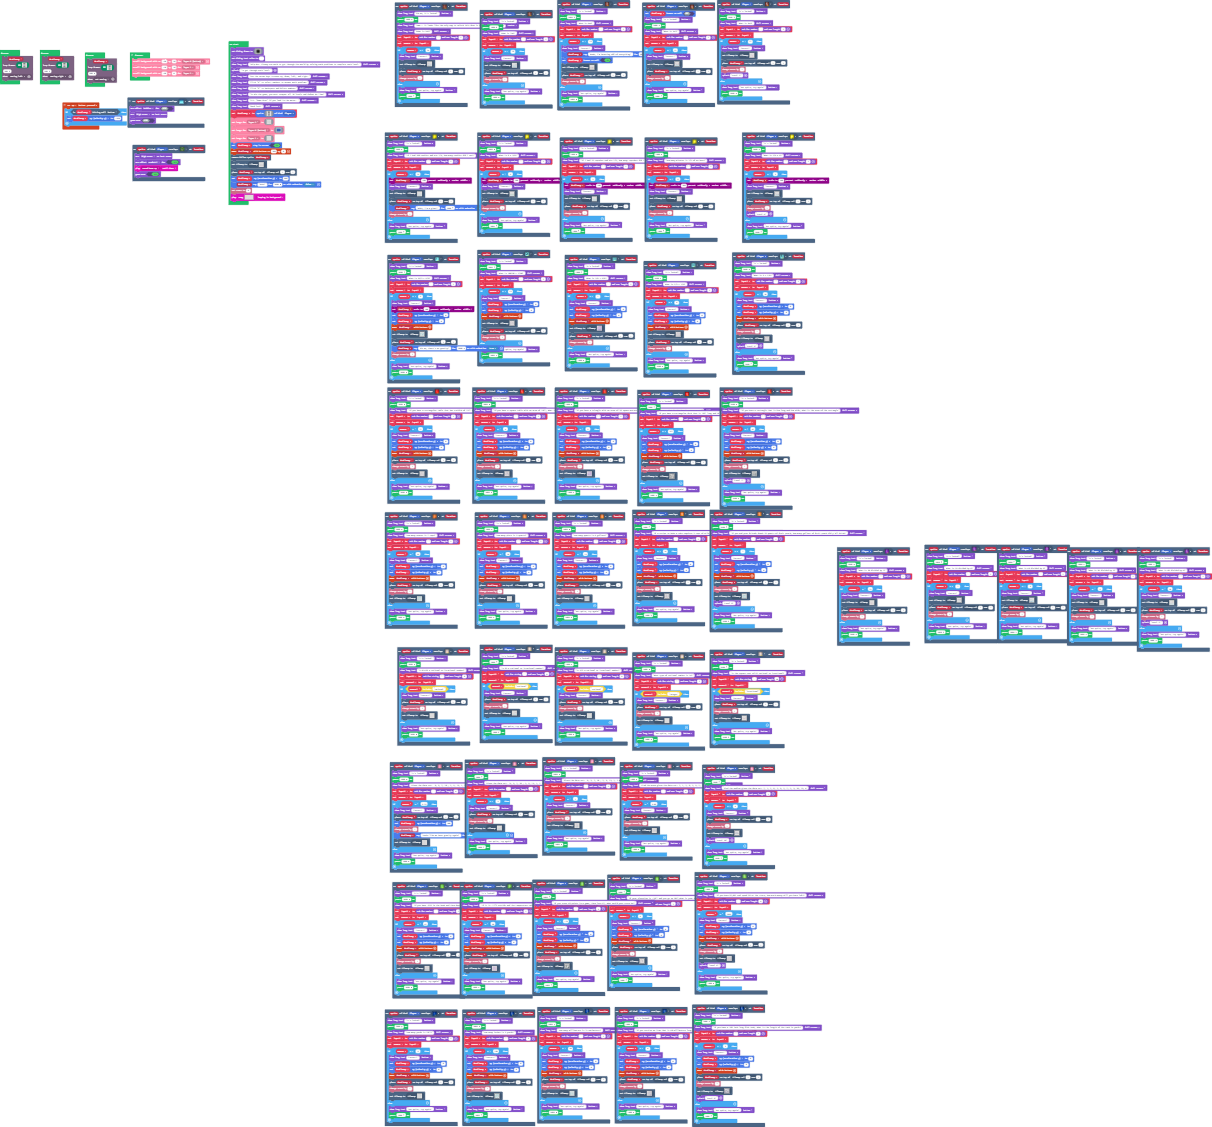
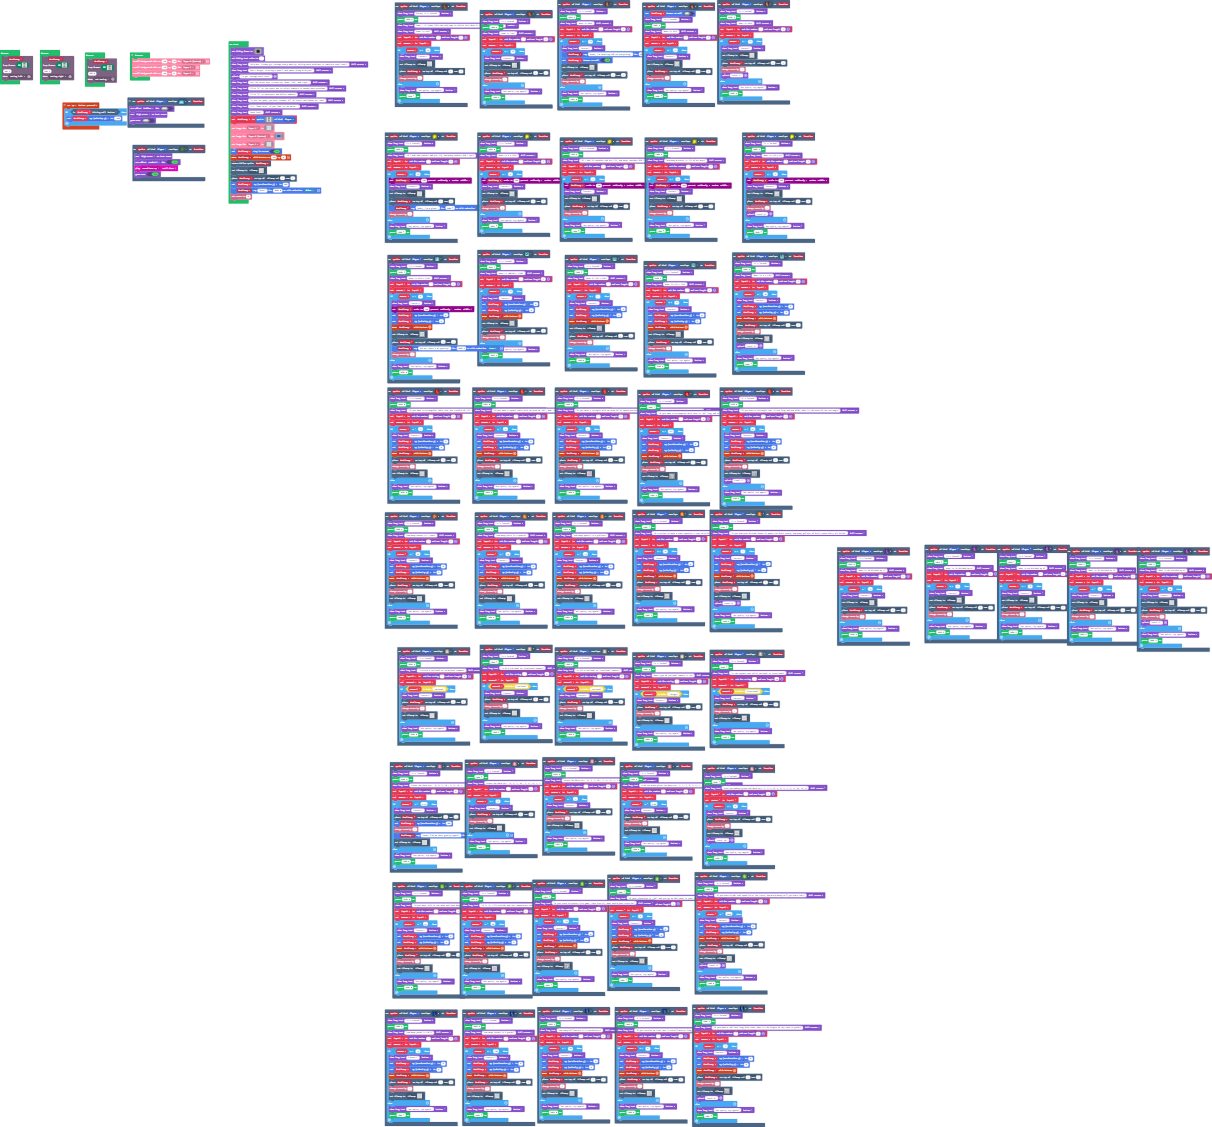
Update main.blocks, main.ts

Changed region(s): [[0.1832, 0.0621, 0.3053, 0.1863]]

diff --git a/main.ts b/main.ts
@@ -937,10 +937,11 @@ game.setDialogFrame(img`
     1 1 1 1 1 1 1 1 1 1 1 1 1 1 1 
     `)
 game.setDialogTextColor(1)
-game.showLongText("Help Mrs. Finney use math to get through the world by solving math problems to complete each level.", DialogLayout.Full)
+game.showLongText("Help Mrs. Finney get through every maze by solving math problems to complete each level.", DialogLayout.Full)
+game.showLongText("Don't forget to bring a pencil and paper along with you!", DialogLayout.Full)
 game.splash("To get through each level:")
 game.showLongText("Use the arrow keys to move up, down, left, and right.", DialogLayout.Full)
-game.showLongText("Click \"A\" to select numbers to answer math problems", DialogLayout.Full)
+game.showLongText("Click \"A\" or the space bar to select numbers to answer math problems", DialogLayout.Full)
 game.showLongText("Click \"B\" to backspace and delete numbers", DialogLayout.Full)
 game.showLongText("To win the game, you must conquer all 10 levels and defeat Mr.Time!", DialogLayout.Full)
 game.showLongText("P.S. \"Game Over\" if you land in the water. ", DialogLayout.Full)
@@ -1400,7 +1401,6 @@ tiles.placeOnTile(MrsFinney, tiles.getTileLocation(1, 1))
 MrsFinney.ay = 500
 MrsFinney.sayText("AHHH!", 1000, false)
 info.setScore(0)
[1 lines of base64/hex data omitted]
 forever(function () {
     characterAnimations.loopFrames(
     MrsFinney,
